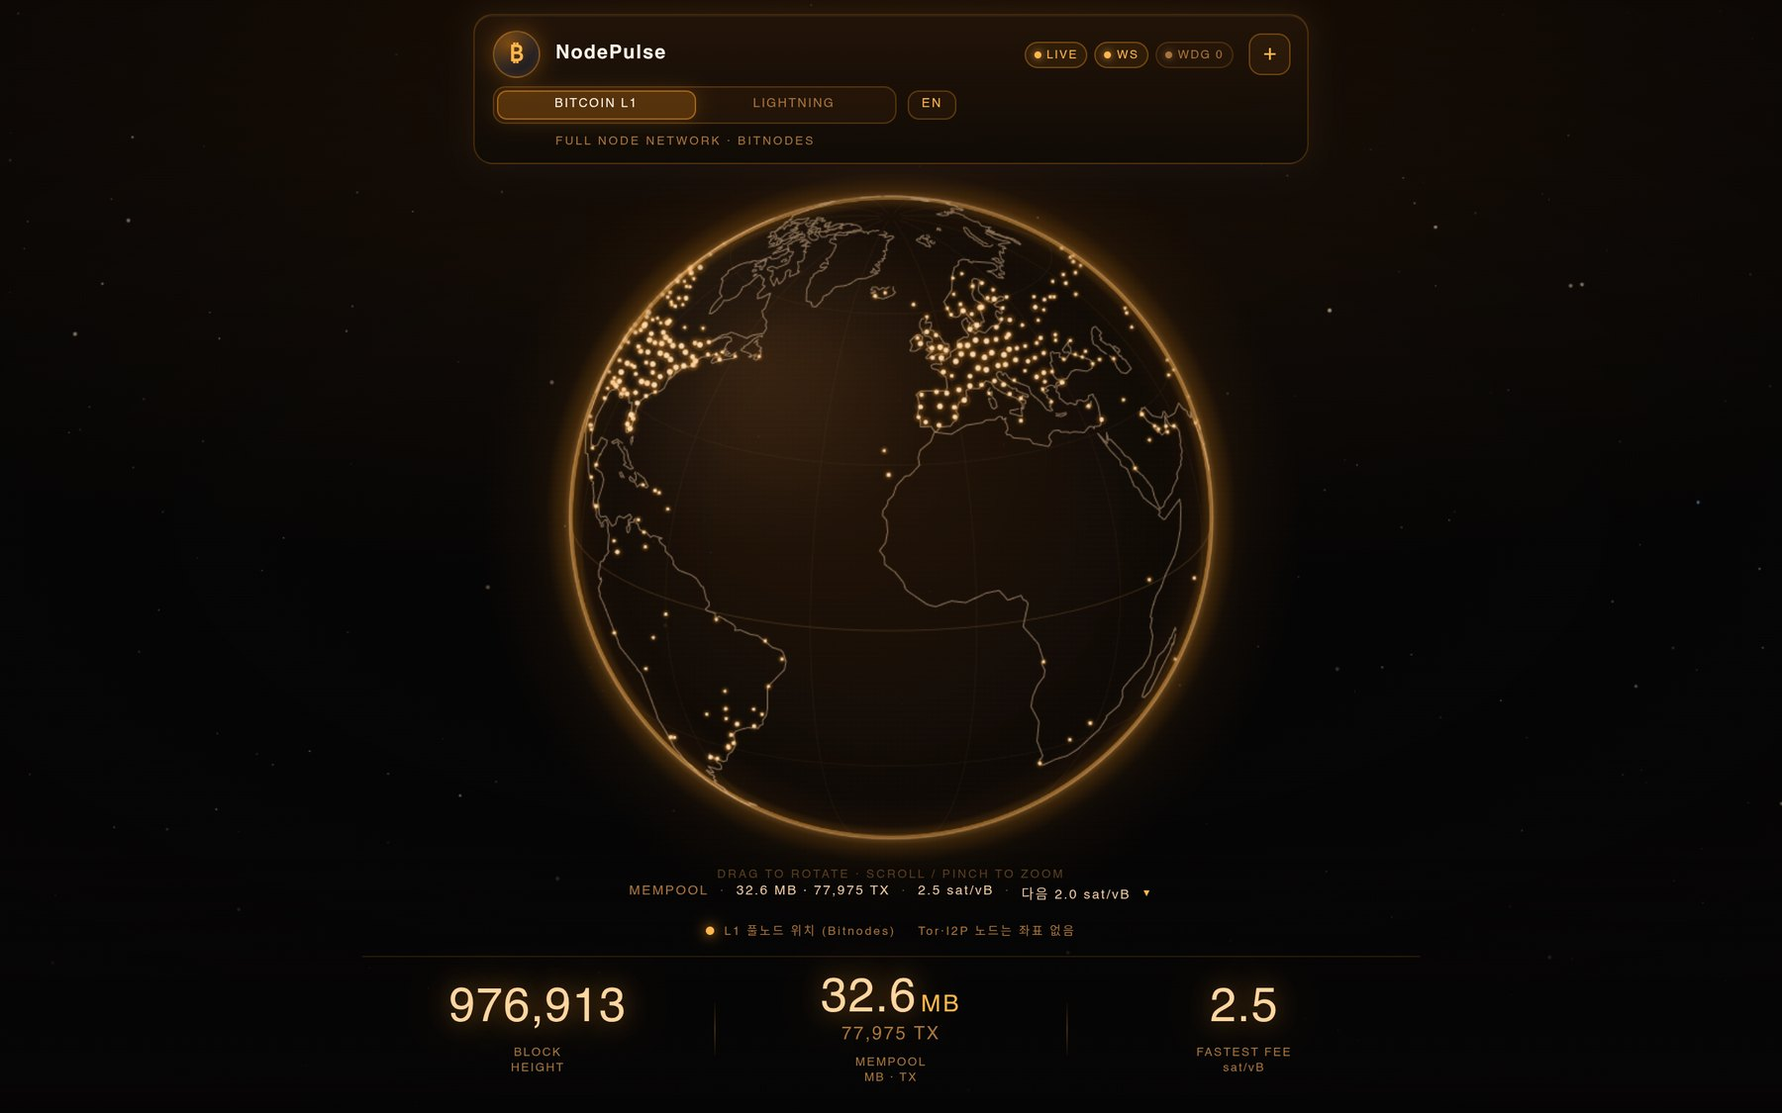
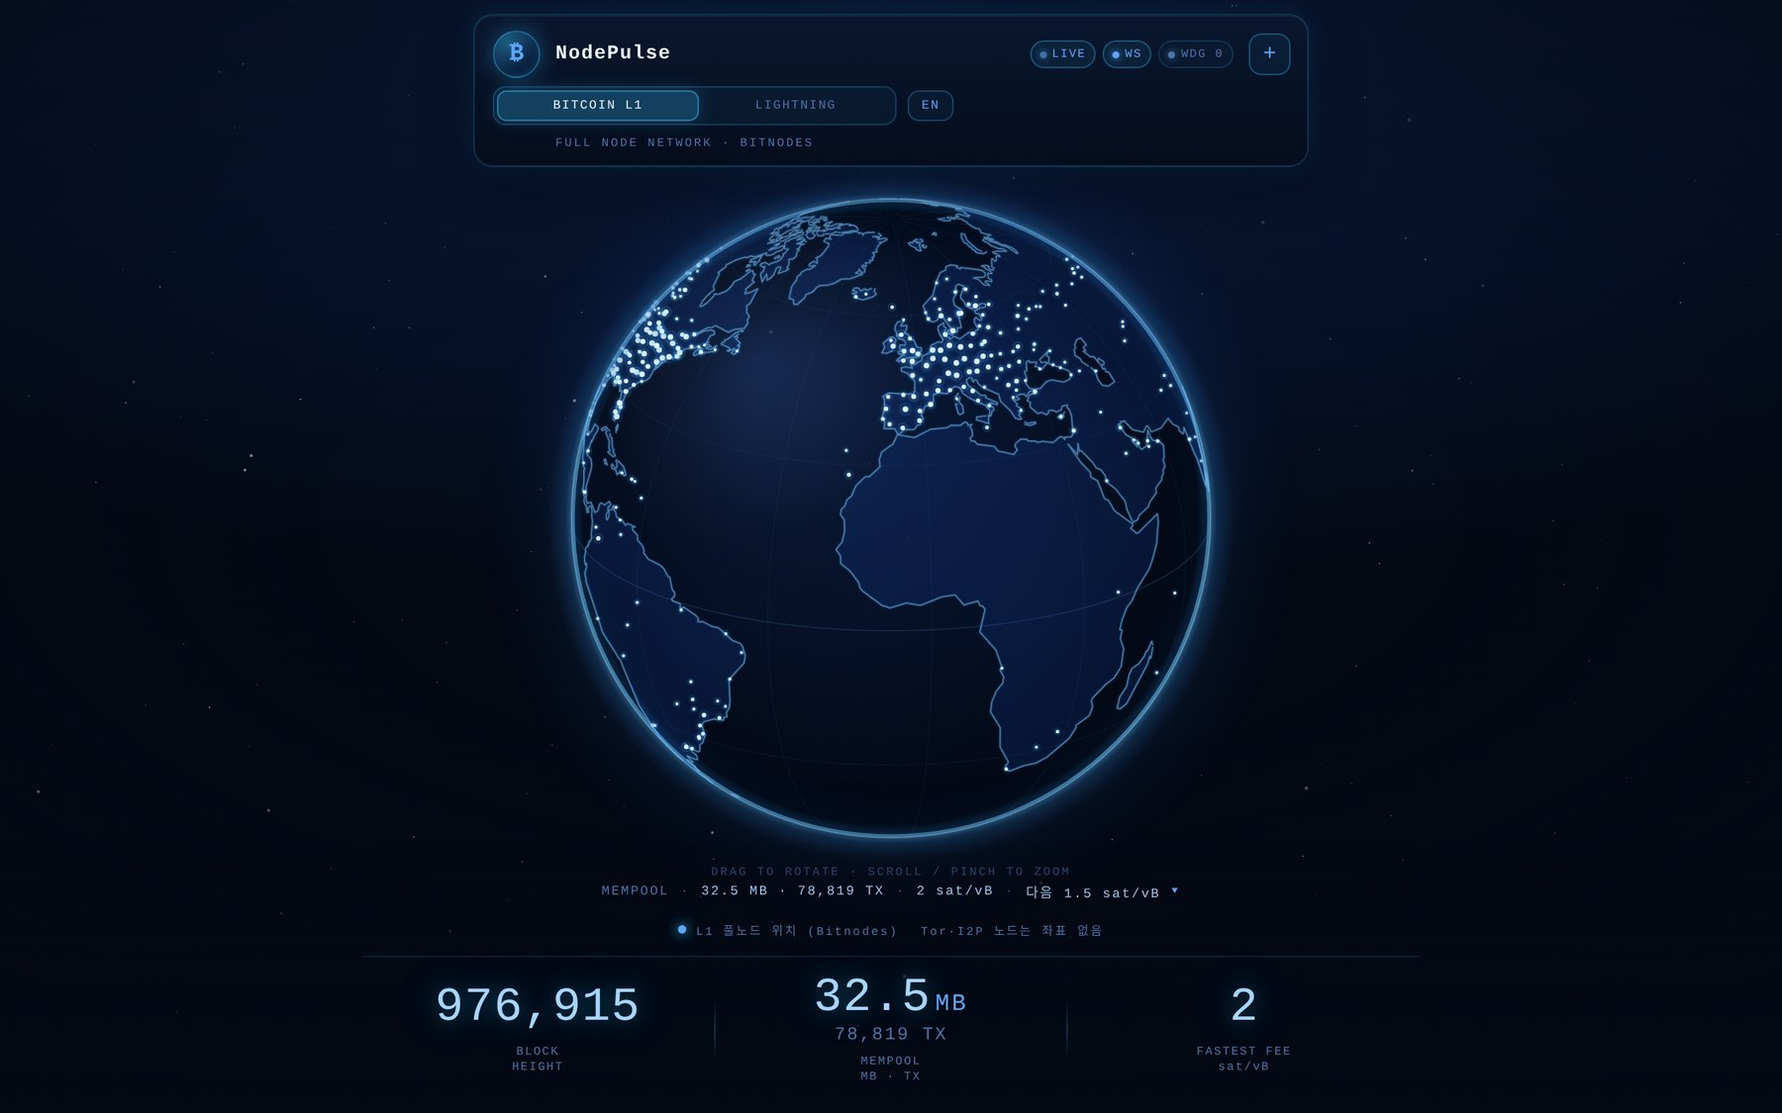
ui: restore the cyan / deep-blue L1 identity, give Lightning its own violet palette
The L1-first rework had dressed the whole app in Bitcoin orange, which dropped the
product's own identity and made the two layers hard to tell apart at a glance.

* Bitcoin L1 returns to the original cyan / deep blue: --ac 56,189,248, navy
  backgrounds, cyan globe body, white-blue node dots and halo (the palette commit
  5f1d3c2 used before 9e62598).
* Lightning keeps its own distinct identity in electric violet (--ac 167,139,250)
  over deeper indigo surfaces, so neither layer borrows the other's signal colour.
* Every layer-specific surface (top bar, HUD wash, node card, toast, vignette,
  background stars, layer-switch pill) follows the layer instead of the old
  orange-only overrides.
* L1 still draws no links of any kind: only the real Bitnodes coordinates.
* Screenshots regenerated in the new palette; README documents both palettes.
* versionCode 3 / versionName 1.1.1 so the rebuilt APK installs over 1.1.0.
* test: wait out the app's 320 ms paint throttle before reading the watchdog badge
  (the assertion was racing paint(), which made the suite fail intermittently).

169/169 assertions pass.

diff --git a/dist/nodepulse.html b/dist/nodepulse.html
@@ -15,9 +15,10 @@
 <meta name="mobile-web-app-capable" content="yes">
 <style>
 /* NodePulse — single file, no external assets.
-   Two identities share one stylesheet: Bitcoin L1 (orange, --ac 247,147,26) and
-   Lightning (cyan, --ac 56,189,248). Every accent colour below is written as
-   rgba(var(--ac), a) so switching the layer switches the whole palette. */
+   Two identities share one stylesheet: Bitcoin L1 (the original cyan / deep blue,
+   --ac 56,189,248) and Lightning (electric violet, --ac 167,139,250). Every accent
+   colour below is written as rgba(var(--ac), a) so switching the layer switches
+   the whole palette. */
 :root{
   --ac:56,189,248;
   --ac2:96,165,250;
@@ -34,15 +35,15 @@
   --sans:-apple-system,BlinkMacSystemFont,"Apple SD Gothic Neo","Malgun Gothic","Noto Sans KR",Roboto,sans-serif;
   --pad:14px;
 }
-body.l1{
-  --ac:247,147,26;
-  --ac2:255,183,77;
-  --ink:#ffeee0;
-  --ink-soft:#f0c9a2;
-  --dim:#a9743c;
-  --dim2:#6d4a22;
-  --val:#ffd6a0;
-  --strong:#fff4e8;
+body.ln{
+  --ac:167,139,250;
+  --ac2:196,181,253;
+  --ink:#e6e1ff;
+  --ink-soft:#b6ace8;
+  --dim:#6a6494;
+  --dim2:#443f6b;
+  --val:#cfc6ff;
+  --strong:#f4f1ff;
 }
 *{box-sizing:border-box;-webkit-tap-highlight-color:transparent}
 html,body{height:100%;margin:0}
@@ -58,17 +59,17 @@ body{
   text-rendering:optimizeLegibility;
   transition:background-color .5s ease;
 }
-body.l1{
+body.ln{
   background:
-    radial-gradient(120% 78% at 50% -8%, #2a1503 0%, #1c0f04 26%, #0f0a06 52%, #060505 78%),
-    radial-gradient(60% 40% at 92% 108%, rgba(var(--ac),.18), rgba(6,5,5,0) 70%),
-    #050404;
+    radial-gradient(120% 78% at 50% -8%, #1c1748 0%, #151037 26%, #0b0824 52%, #050414 78%),
+    radial-gradient(60% 40% at 92% 108%, rgba(var(--ac),.18), rgba(5,4,20,0) 70%),
+    #050414;
 }
 body::after{ /* faint vignette so the globe sits in a dark well */
   content:"";position:fixed;inset:0;pointer-events:none;z-index:1;
   background:radial-gradient(80% 60% at 50% 46%, rgba(4,9,20,0) 40%, rgba(4,9,20,.58) 100%);
 }
-body.l1::after{background:radial-gradient(80% 60% at 50% 46%, rgba(6,5,5,0) 40%, rgba(6,5,5,.58) 100%)}
+body.ln::after{background:radial-gradient(80% 60% at 50% 46%, rgba(5,4,20,0) 40%, rgba(5,4,20,.58) 100%)}
 #stage{position:fixed;inset:0;z-index:0}
 #globe{position:absolute;inset:0;width:100%;height:100%;display:block;touch-action:none}
 
@@ -85,7 +86,7 @@ body.l1::after{background:radial-gradient(80% 60% at 50% 46%, rgba(6,5,5,0) 40%,
   overflow:hidden;
   transition:box-shadow .35s ease, border-color .35s ease, background .5s ease;
 }
-body.l1 .topbar{background:linear-gradient(180deg, rgba(34,20,8,.97), rgba(16,11,6,.985))}
+body.ln .topbar{background:linear-gradient(180deg, rgba(22,18,54,.97), rgba(11,9,30,.985))}
 .topbar.open{border-color:rgba(var(--ac),.36);box-shadow:0 18px 44px rgba(1,6,18,.6), 0 0 30px rgba(var(--ac),.24), inset 0 1px 0 rgba(255,255,255,.07)}
 .head{display:flex;align-items:center;gap:11px;padding:11px 12px 6px 13px}
 .mark{
@@ -132,8 +133,8 @@ body.l1 .topbar{background:linear-gradient(180deg, rgba(34,20,8,.97), rgba(16,11
   font-family:var(--mono);font-size:9px;letter-spacing:.12em;color:var(--dim);
   background:none;white-space:nowrap;transition:color .2s,background .2s,border-color .2s;
 }
-.lay.on{color:#fff6ea;background:rgba(var(--ac),.24);border-color:rgba(var(--ac),.5);box-shadow:0 0 14px rgba(var(--ac),.22)}
-body.ln .lay.on{color:#eaf7ff}
+.lay.on{color:#eaf7ff;background:rgba(var(--ac),.24);border-color:rgba(var(--ac),.5);box-shadow:0 0 14px rgba(var(--ac),.22)}
+body.ln .lay.on{color:#f3eeff}
 .lng{
   flex:0 0 auto;cursor:pointer;border-radius:8px;padding:5px 9px;
   border:1px solid rgba(var(--ac),.28);background:rgba(var(--ac),.05);
@@ -237,7 +238,7 @@ body.en .row .k em{display:none}
   background:linear-gradient(180deg, rgba(4,9,20,0) 0%, rgba(4,9,20,.72) 42%, rgba(4,9,20,.94) 100%);
   pointer-events:none;
 }
-body.l1 .hud{background:linear-gradient(180deg, rgba(6,5,5,0) 0%, rgba(6,5,5,.72) 42%, rgba(6,5,5,.94) 100%)}
+body.ln .hud{background:linear-gradient(180deg, rgba(5,4,20,0) 0%, rgba(5,4,20,.72) 42%, rgba(5,4,20,.94) 100%)}
 .hud > *{pointer-events:auto}
 .strip{
   display:flex;justify-content:center;align-items:center;gap:8px;flex-wrap:wrap;
@@ -291,7 +292,7 @@ body.ln  #metricsLN{display:grid}
   padding:16px 17px 18px;
   animation:cardin .28s cubic-bezier(.2,.8,.3,1);
 }
-body.l1 .card{background:linear-gradient(180deg, rgba(34,20,8,.98), rgba(14,10,6,.99))}
+body.ln .card{background:linear-gradient(180deg, rgba(23,19,56,.98), rgba(11,9,30,.99))}
 @keyframes cardin{from{opacity:0;transform:translateY(10px) scale(.99)}to{opacity:1;transform:none}}
 .card::-webkit-scrollbar{width:3px}
 .card::-webkit-scrollbar-thumb{background:rgba(var(--ac),.28);border-radius:3px}
@@ -342,7 +343,7 @@ body.l1 .card{background:linear-gradient(180deg, rgba(34,20,8,.98), rgba(14,10,6
   transition:opacity .3s ease, transform .3s ease, visibility .3s ease;
   white-space:nowrap;max-width:calc(100vw - 32px);overflow:hidden;text-overflow:ellipsis;
 }
-body.l1 .toast{background:rgba(30,17,6,.94)}
+body.ln .toast{background:rgba(18,14,44,.94)}
 .toast.on{opacity:1;visibility:visible;transform:translateX(-50%) translateY(0)}
 
 .hint{
@@ -1932,10 +1933,10 @@ var L1_SNAPSHOT = {"capturedAt":1795267457,"source":"https://bitnodes.io/api/v1/
   }
 
   /* ---------------------------------------------------------------- globe */
-  /* Two palettes, one renderer. The L1 identity is Bitcoin orange; Lightning
-     keeps the cyan it had. Every colour the globe draws comes from here. */
+  /* Two palettes, one renderer. The L1 identity is the original cyan / deep blue;
+     Lightning is electric violet. Every colour the globe draws comes from here. */
   var THEME = {
-    ln: {
+    l1: {
       body: [[0, 'rgba(20,46,96,0.52)'], [0.30, 'rgba(10,26,58,0.66)'], [0.66, 'rgba(6,16,38,0.82)'], [0.90, 'rgba(3,9,22,0.92)'], [1, 'rgba(2,6,16,0.96)']],
       rim: [[0, 'rgba(4,10,22,0)'], [0.70, 'rgba(3,9,22,0.14)'], [0.92, 'rgba(6,22,48,0.30)'], [0.978, 'rgba(38,140,225,0.20)'], [1, 'rgba(125,211,252,0.12)']],
       at1: [[0, 'rgba(150,215,255,0.40)'], [0.35, 'rgba(56,170,255,0.13)'], [1, 'rgba(56,150,255,0)']],
@@ -1947,17 +1948,17 @@ var L1_SNAPSHOT = {"capturedAt":1795267457,"source":"https://bitnodes.io/api/v1/
       dot: '226,246,255', halo: '120,205,255', arc: '110,190,255', packet: '80,165,255',
       glow: ['rgba(226,246,255,0.95)', 'rgba(140,215,255,0.60)', 'rgba(56,165,255,0.20)', 'rgba(56,150,255,0.055)', 'rgba(56,150,255,0)']
     },
-    l1: {
-      body: [[0, 'rgba(74,40,12,0.50)'], [0.30, 'rgba(44,25,9,0.68)'], [0.66, 'rgba(26,16,8,0.84)'], [0.90, 'rgba(15,10,6,0.93)'], [1, 'rgba(8,6,5,0.97)']],
-      rim: [[0, 'rgba(4,6,12,0)'], [0.70, 'rgba(14,9,5,0.14)'], [0.92, 'rgba(58,32,10,0.30)'], [0.978, 'rgba(247,147,26,0.22)'], [1, 'rgba(255,196,120,0.14)']],
-      at1: [[0, 'rgba(255,196,110,0.34)'], [0.35, 'rgba(247,147,26,0.13)'], [1, 'rgba(247,147,26,0)']],
-      at2: [[0, 'rgba(247,147,26,0.10)'], [0.45, 'rgba(200,110,20,0.04)'], [1, 'rgba(200,110,20,0)']],
-      hi: 'rgba(255,205,150,0.05)',
-      rimLine: 'rgba(255,190,130,0.44)', rimLine2: 'rgba(247,147,26,0.14)',
-      land: 'rgba(247,147,26,0.16)', coast: 'rgba(255,214,170,0.5)', coastGlow: 'rgba(247,147,26,0.18)',
-      grid: 'rgba(200,140,70,0.085)', gridBack: 'rgba(150,100,50,0.030)', equator: 'rgba(230,160,80,0.14)',
-      dot: '255,222,180', halo: '247,147,26', arc: '247,147,26', packet: '247,147,26',
-      glow: ['rgba(255,238,220,0.95)', 'rgba(255,190,110,0.60)', 'rgba(247,147,26,0.22)', 'rgba(247,147,26,0.06)', 'rgba(247,147,26,0)']
+    ln: {
+      body: [[0, 'rgba(48,38,98,0.52)'], [0.30, 'rgba(26,21,60,0.66)'], [0.66, 'rgba(15,12,40,0.82)'], [0.90, 'rgba(8,6,24,0.92)'], [1, 'rgba(4,3,14,0.96)']],
+      rim: [[0, 'rgba(8,6,20,0)'], [0.70, 'rgba(6,5,18,0.14)'], [0.92, 'rgba(22,16,56,0.30)'], [0.978, 'rgba(139,92,246,0.20)'], [1, 'rgba(196,181,253,0.12)']],
+      at1: [[0, 'rgba(208,196,255,0.34)'], [0.35, 'rgba(139,92,246,0.13)'], [1, 'rgba(139,92,246,0)']],
+      at2: [[0, 'rgba(139,92,246,0.10)'], [0.45, 'rgba(110,70,220,0.04)'], [1, 'rgba(110,70,220,0)']],
+      hi: 'rgba(196,181,253,0.05)',
+      rimLine: 'rgba(200,186,255,0.42)', rimLine2: 'rgba(167,139,250,0.12)',
+      land: 'rgba(124,92,246,0.15)', coast: 'rgba(206,200,255,0.5)', coastGlow: 'rgba(139,120,250,0.18)',
+      grid: 'rgba(140,120,235,0.085)', gridBack: 'rgba(100,85,190,0.030)', equator: 'rgba(160,140,250,0.14)',
+      dot: '232,226,255', halo: '170,145,255', arc: '172,150,255', packet: '150,120,255',
+      glow: ['rgba(240,236,255,0.95)', 'rgba(198,184,255,0.60)', 'rgba(139,92,246,0.20)', 'rgba(139,92,246,0.055)', 'rgba(139,92,246,0)']
     }
   };
   function TH() { return THEME[S.layer] || THEME.l1; }
@@ -2071,7 +2072,7 @@ var L1_SNAPSHOT = {"capturedAt":1795267457,"source":"https://bitnodes.io/api/v1/
         var big = Math.random() > 0.88;
         var r = big ? 1.2 + Math.random() * 0.8 : 0.45 + Math.random() * 0.6;
         c.globalAlpha = 0.18 + Math.random() * 0.5;
-        c.fillStyle = i % 11 === 0 ? '#9fd0ff' : (S.layer === 'l1' ? '#ffe3c4' : '#cfe4ff');
+        c.fillStyle = i % 11 === 0 ? (S.layer === 'l1' ? '#9fd0ff' : '#c9b6ff') : (S.layer === 'l1' ? '#cfe4ff' : '#e4deff');
         if (big) { c.beginPath(); c.arc(x, y, r * 0.7, 0, TAU); c.fill(); }
         else c.fillRect(x, y, r, r);
       }

diff --git a/src/app.css b/src/app.css
@@ -1,7 +1,8 @@
 /* NodePulse — single file, no external assets.
-   Two identities share one stylesheet: Bitcoin L1 (orange, --ac 247,147,26) and
-   Lightning (cyan, --ac 56,189,248). Every accent colour below is written as
-   rgba(var(--ac), a) so switching the layer switches the whole palette. */
+   Two identities share one stylesheet: Bitcoin L1 (the original cyan / deep blue,
+   --ac 56,189,248) and Lightning (electric violet, --ac 167,139,250). Every accent
+   colour below is written as rgba(var(--ac), a) so switching the layer switches
+   the whole palette. */
 :root{
   --ac:56,189,248;
   --ac2:96,165,250;
@@ -18,15 +19,15 @@
   --sans:-apple-system,BlinkMacSystemFont,"Apple SD Gothic Neo","Malgun Gothic","Noto Sans KR",Roboto,sans-serif;
   --pad:14px;
 }
-body.l1{
-  --ac:247,147,26;
-  --ac2:255,183,77;
-  --ink:#ffeee0;
-  --ink-soft:#f0c9a2;
-  --dim:#a9743c;
-  --dim2:#6d4a22;
-  --val:#ffd6a0;
-  --strong:#fff4e8;
+body.ln{
+  --ac:167,139,250;
+  --ac2:196,181,253;
+  --ink:#e6e1ff;
+  --ink-soft:#b6ace8;
+  --dim:#6a6494;
+  --dim2:#443f6b;
+  --val:#cfc6ff;
+  --strong:#f4f1ff;
 }
 *{box-sizing:border-box;-webkit-tap-highlight-color:transparent}
 html,body{height:100%;margin:0}
@@ -42,17 +43,17 @@ body{
   text-rendering:optimizeLegibility;
   transition:background-color .5s ease;
 }
-body.l1{
+body.ln{
   background:
-    radial-gradient(120% 78% at 50% -8%, #2a1503 0%, #1c0f04 26%, #0f0a06 52%, #060505 78%),
-    radial-gradient(60% 40% at 92% 108%, rgba(var(--ac),.18), rgba(6,5,5,0) 70%),
-    #050404;
+    radial-gradient(120% 78% at 50% -8%, #1c1748 0%, #151037 26%, #0b0824 52%, #050414 78%),
+    radial-gradient(60% 40% at 92% 108%, rgba(var(--ac),.18), rgba(5,4,20,0) 70%),
+    #050414;
 }
 body::after{ /* faint vignette so the globe sits in a dark well */
   content:"";position:fixed;inset:0;pointer-events:none;z-index:1;
   background:radial-gradient(80% 60% at 50% 46%, rgba(4,9,20,0) 40%, rgba(4,9,20,.58) 100%);
 }
-body.l1::after{background:radial-gradient(80% 60% at 50% 46%, rgba(6,5,5,0) 40%, rgba(6,5,5,.58) 100%)}
+body.ln::after{background:radial-gradient(80% 60% at 50% 46%, rgba(5,4,20,0) 40%, rgba(5,4,20,.58) 100%)}
 #stage{position:fixed;inset:0;z-index:0}
 #globe{position:absolute;inset:0;width:100%;height:100%;display:block;touch-action:none}
 
@@ -69,7 +70,7 @@ body.l1::after{background:radial-gradient(80% 60% at 50% 46%, rgba(6,5,5,0) 40%,
   overflow:hidden;
   transition:box-shadow .35s ease, border-color .35s ease, background .5s ease;
 }
-body.l1 .topbar{background:linear-gradient(180deg, rgba(34,20,8,.97), rgba(16,11,6,.985))}
+body.ln .topbar{background:linear-gradient(180deg, rgba(22,18,54,.97), rgba(11,9,30,.985))}
 .topbar.open{border-color:rgba(var(--ac),.36);box-shadow:0 18px 44px rgba(1,6,18,.6), 0 0 30px rgba(var(--ac),.24), inset 0 1px 0 rgba(255,255,255,.07)}
 .head{display:flex;align-items:center;gap:11px;padding:11px 12px 6px 13px}
 .mark{
@@ -116,8 +117,8 @@ body.l1 .topbar{background:linear-gradient(180deg, rgba(34,20,8,.97), rgba(16,11
   font-family:var(--mono);font-size:9px;letter-spacing:.12em;color:var(--dim);
   background:none;white-space:nowrap;transition:color .2s,background .2s,border-color .2s;
 }
-.lay.on{color:#fff6ea;background:rgba(var(--ac),.24);border-color:rgba(var(--ac),.5);box-shadow:0 0 14px rgba(var(--ac),.22)}
-body.ln .lay.on{color:#eaf7ff}
+.lay.on{color:#eaf7ff;background:rgba(var(--ac),.24);border-color:rgba(var(--ac),.5);box-shadow:0 0 14px rgba(var(--ac),.22)}
+body.ln .lay.on{color:#f3eeff}
 .lng{
   flex:0 0 auto;cursor:pointer;border-radius:8px;padding:5px 9px;
   border:1px solid rgba(var(--ac),.28);background:rgba(var(--ac),.05);
@@ -221,7 +222,7 @@ body.en .row .k em{display:none}
   background:linear-gradient(180deg, rgba(4,9,20,0) 0%, rgba(4,9,20,.72) 42%, rgba(4,9,20,.94) 100%);
   pointer-events:none;
 }
-body.l1 .hud{background:linear-gradient(180deg, rgba(6,5,5,0) 0%, rgba(6,5,5,.72) 42%, rgba(6,5,5,.94) 100%)}
+body.ln .hud{background:linear-gradient(180deg, rgba(5,4,20,0) 0%, rgba(5,4,20,.72) 42%, rgba(5,4,20,.94) 100%)}
 .hud > *{pointer-events:auto}
 .strip{
   display:flex;justify-content:center;align-items:center;gap:8px;flex-wrap:wrap;
@@ -275,7 +276,7 @@ body.ln  #metricsLN{display:grid}
   padding:16px 17px 18px;
   animation:cardin .28s cubic-bezier(.2,.8,.3,1);
 }
-body.l1 .card{background:linear-gradient(180deg, rgba(34,20,8,.98), rgba(14,10,6,.99))}
+body.ln .card{background:linear-gradient(180deg, rgba(23,19,56,.98), rgba(11,9,30,.99))}
 @keyframes cardin{from{opacity:0;transform:translateY(10px) scale(.99)}to{opacity:1;transform:none}}
 .card::-webkit-scrollbar{width:3px}
 .card::-webkit-scrollbar-thumb{background:rgba(var(--ac),.28);border-radius:3px}
@@ -326,7 +327,7 @@ body.l1 .card{background:linear-gradient(180deg, rgba(34,20,8,.98), rgba(14,10,6
   transition:opacity .3s ease, transform .3s ease, visibility .3s ease;
   white-space:nowrap;max-width:calc(100vw - 32px);overflow:hidden;text-overflow:ellipsis;
 }
-body.l1 .toast{background:rgba(30,17,6,.94)}
+body.ln .toast{background:rgba(18,14,44,.94)}
 .toast.on{opacity:1;visibility:visible;transform:translateX(-50%) translateY(0)}
 
 .hint{

diff --git a/src/app.js b/src/app.js
@@ -1387,10 +1387,10 @@
   }
 
   /* ---------------------------------------------------------------- globe */
-  /* Two palettes, one renderer. The L1 identity is Bitcoin orange; Lightning
-     keeps the cyan it had. Every colour the globe draws comes from here. */
+  /* Two palettes, one renderer. The L1 identity is the original cyan / deep blue;
+     Lightning is electric violet. Every colour the globe draws comes from here. */
   var THEME = {
-    ln: {
+    l1: {
       body: [[0, 'rgba(20,46,96,0.52)'], [0.30, 'rgba(10,26,58,0.66)'], [0.66, 'rgba(6,16,38,0.82)'], [0.90, 'rgba(3,9,22,0.92)'], [1, 'rgba(2,6,16,0.96)']],
       rim: [[0, 'rgba(4,10,22,0)'], [0.70, 'rgba(3,9,22,0.14)'], [0.92, 'rgba(6,22,48,0.30)'], [0.978, 'rgba(38,140,225,0.20)'], [1, 'rgba(125,211,252,0.12)']],
       at1: [[0, 'rgba(150,215,255,0.40)'], [0.35, 'rgba(56,170,255,0.13)'], [1, 'rgba(56,150,255,0)']],
@@ -1402,17 +1402,17 @@
       dot: '226,246,255', halo: '120,205,255', arc: '110,190,255', packet: '80,165,255',
       glow: ['rgba(226,246,255,0.95)', 'rgba(140,215,255,0.60)', 'rgba(56,165,255,0.20)', 'rgba(56,150,255,0.055)', 'rgba(56,150,255,0)']
     },
-    l1: {
-      body: [[0, 'rgba(74,40,12,0.50)'], [0.30, 'rgba(44,25,9,0.68)'], [0.66, 'rgba(26,16,8,0.84)'], [0.90, 'rgba(15,10,6,0.93)'], [1, 'rgba(8,6,5,0.97)']],
-      rim: [[0, 'rgba(4,6,12,0)'], [0.70, 'rgba(14,9,5,0.14)'], [0.92, 'rgba(58,32,10,0.30)'], [0.978, 'rgba(247,147,26,0.22)'], [1, 'rgba(255,196,120,0.14)']],
-      at1: [[0, 'rgba(255,196,110,0.34)'], [0.35, 'rgba(247,147,26,0.13)'], [1, 'rgba(247,147,26,0)']],
-      at2: [[0, 'rgba(247,147,26,0.10)'], [0.45, 'rgba(200,110,20,0.04)'], [1, 'rgba(200,110,20,0)']],
-      hi: 'rgba(255,205,150,0.05)',
-      rimLine: 'rgba(255,190,130,0.44)', rimLine2: 'rgba(247,147,26,0.14)',
-      land: 'rgba(247,147,26,0.16)', coast: 'rgba(255,214,170,0.5)', coastGlow: 'rgba(247,147,26,0.18)',
-      grid: 'rgba(200,140,70,0.085)', gridBack: 'rgba(150,100,50,0.030)', equator: 'rgba(230,160,80,0.14)',
-      dot: '255,222,180', halo: '247,147,26', arc: '247,147,26', packet: '247,147,26',
-      glow: ['rgba(255,238,220,0.95)', 'rgba(255,190,110,0.60)', 'rgba(247,147,26,0.22)', 'rgba(247,147,26,0.06)', 'rgba(247,147,26,0)']
+    ln: {
+      body: [[0, 'rgba(48,38,98,0.52)'], [0.30, 'rgba(26,21,60,0.66)'], [0.66, 'rgba(15,12,40,0.82)'], [0.90, 'rgba(8,6,24,0.92)'], [1, 'rgba(4,3,14,0.96)']],
+      rim: [[0, 'rgba(8,6,20,0)'], [0.70, 'rgba(6,5,18,0.14)'], [0.92, 'rgba(22,16,56,0.30)'], [0.978, 'rgba(139,92,246,0.20)'], [1, 'rgba(196,181,253,0.12)']],
+      at1: [[0, 'rgba(208,196,255,0.34)'], [0.35, 'rgba(139,92,246,0.13)'], [1, 'rgba(139,92,246,0)']],
+      at2: [[0, 'rgba(139,92,246,0.10)'], [0.45, 'rgba(110,70,220,0.04)'], [1, 'rgba(110,70,220,0)']],
+      hi: 'rgba(196,181,253,0.05)',
+      rimLine: 'rgba(200,186,255,0.42)', rimLine2: 'rgba(167,139,250,0.12)',
+      land: 'rgba(124,92,246,0.15)', coast: 'rgba(206,200,255,0.5)', coastGlow: 'rgba(139,120,250,0.18)',
+      grid: 'rgba(140,120,235,0.085)', gridBack: 'rgba(100,85,190,0.030)', equator: 'rgba(160,140,250,0.14)',
+      dot: '232,226,255', halo: '170,145,255', arc: '172,150,255', packet: '150,120,255',
+      glow: ['rgba(240,236,255,0.95)', 'rgba(198,184,255,0.60)', 'rgba(139,92,246,0.20)', 'rgba(139,92,246,0.055)', 'rgba(139,92,246,0)']
     }
   };
   function TH() { return THEME[S.layer] || THEME.l1; }
@@ -1526,7 +1526,7 @@
         var big = Math.random() > 0.88;
         var r = big ? 1.2 + Math.random() * 0.8 : 0.45 + Math.random() * 0.6;
         c.globalAlpha = 0.18 + Math.random() * 0.5;
-        c.fillStyle = i % 11 === 0 ? '#9fd0ff' : (S.layer === 'l1' ? '#ffe3c4' : '#cfe4ff');
+        c.fillStyle = i % 11 === 0 ? (S.layer === 'l1' ? '#9fd0ff' : '#c9b6ff') : (S.layer === 'l1' ? '#cfe4ff' : '#e4deff');
         if (big) { c.beginPath(); c.arc(x, y, r * 0.7, 0, TAU); c.fill(); }
         else c.fillRect(x, y, r, r);
       }

diff --git a/test/headless.js b/test/headless.js
@@ -615,7 +615,8 @@ check('inline script blocks', scripts.length === 6, scripts.length);
   stale[0].timestamp = Math.floor(Date.now() / 1000) - 2400;
   wsInstance.deliver({ blocks: stale });
   runFrames(rafQueue, 2);
-  await sleep(80);
+  /* the badge is written by paint(), which the app throttles to one every 320 ms */
+  await sleep(420);
   let w1 = NP.watch();
   check('block delay above 30 min raises an alert', w1.alerts.some(a => a.k === 'gap'),
     w1.alerts.map(a => a.text).join(' | '));

diff --git a/README.md b/README.md
@@ -10,7 +10,7 @@
 ![single file](https://img.shields.io/badge/build-single%20file%20HTML-0b1220?style=flat-square)
 ![canvas 2d](https://img.shields.io/badge/render-Canvas%202D-38bdf8?style=flat-square)
 ![tests](https://img.shields.io/badge/assertions-169%20passing-2ea043?style=flat-square)
-![data](https://img.shields.io/badge/L1-bitnodes-f7931a?style=flat-square)
+![data](https://img.shields.io/badge/L1-bitnodes-38bdf8?style=flat-square)
 ![data](https://img.shields.io/badge/mainnet-mempool.space-orange?style=flat-square)
 
 </div>
@@ -34,13 +34,18 @@ that draws every frame with the Canvas 2D API.
 The switcher sits under the title (`BITCOIN L1 | LIGHTNING`); the `EN / KO` button next to it
 switches language, and both choices are remembered.
 
+Each layer carries its own palette, so the globe you are looking at is readable at a glance:
+**Bitcoin L1** keeps the original cyan / deep-blue identity (`#38bdf8` on `#040914`), and
+**Lightning** has a distinct electric violet one. Neither layer borrows the other's signal
+colour.
+
 The L1 layer draws **no links at all**. Bitnodes publishes no per-node peer graph, so the only
 honest options are to draw nothing or to invent a mesh — it draws nothing. Tor and I2P nodes
 (15,577 of 21,826 in the bundled snapshot) carry no coordinates, so they are counted in the
 totals and the transport split but not placed on the globe.
 
 <div align="center">
-<img src="assets/screenshot-mobile.jpg" width="46%" alt="NodePulse on a phone: Bitcoin L1 full-node globe, orange identity">
+<img src="assets/screenshot-mobile.jpg" width="46%" alt="NodePulse on a phone: Bitcoin L1 full-node globe, cyan / deep-blue identity">
 <img src="assets/screenshot-desktop.jpg" width="52%" alt="NodePulse on a desktop browser">
 </div>
 
